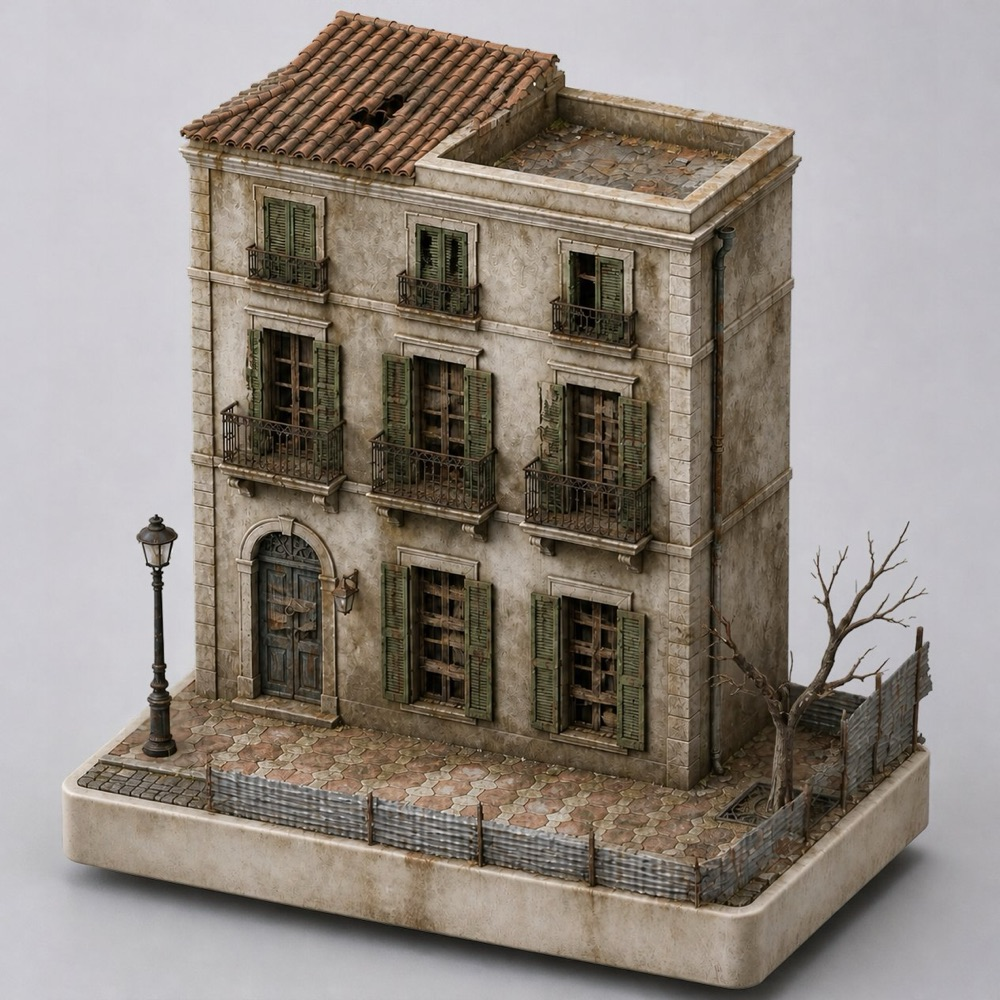
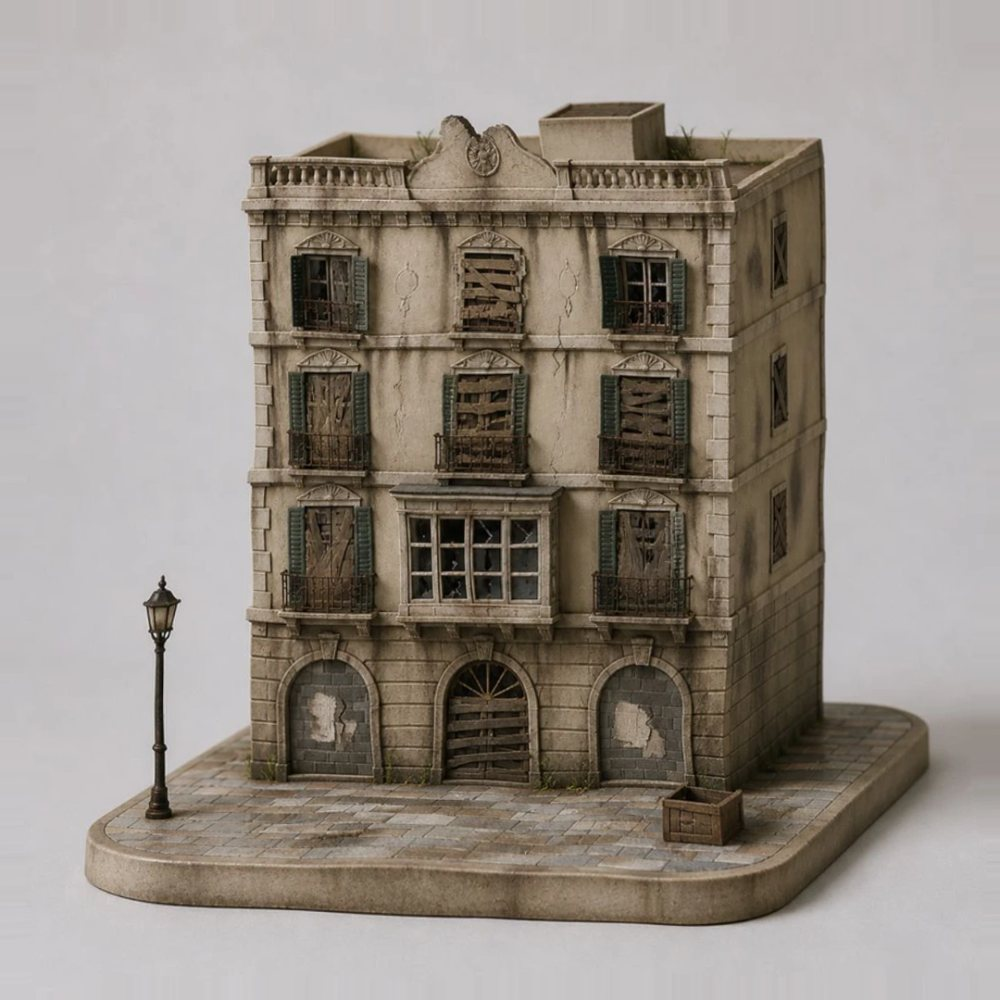
Antes y después modernista, formulario siempre abierto y scroll de los botones
- Comparador: nuevos renders (edificio modernista) alineados al píxel; se quita
  el desplazamiento CSS antiguo del «después». La app conserva el render anterior
  (img/render-app.jpg).
- Formulario: las pestañas del formulario ya no reaccionan a las de «Por qué
  Revibit»; siempre queda una abierta.
- Botones a secciones: desplazamiento animado propio; las parcelas pasan como
  sección normal durante el viaje y la inercia del trackpad no lo corta.
- Versiones en CSS/JS/imágenes para evitar caché.

diff --git a/script.js b/script.js
@@ -7,8 +7,10 @@
   const FORM_ENDPOINT = "https://script.google.com/macros/s/AKfycbwfiQ0v1y38jl50gaqi2CEWt8Fye_v84uIDwWsOAurIMfMEKIuGzV-rMqL1e-3ROuLs/exec"; // ← pegar aquí la dirección /exec de Google Apps Script
 
   // ---------- Pestañas ----------
-  const tabs = [...document.querySelectorAll('[role="tab"]')];
+  // Solo las pestañas del formulario (las de «Por qué Revibit» van aparte)
+  const tabs = [...document.querySelectorAll('.tabs [role="tab"]')];
   function select(id) {
+    if (!tabs.some((t) => t.id === "tab-" + id)) id = "persona";   // siempre queda una abierta
     tabs.forEach((t) => {
       const on = t.id === "tab-" + id;
       t.setAttribute("aria-selected", on);
@@ -25,7 +27,74 @@
     });
   });
   // Los botones del hero abren la pestaña que toca
-  document.querySelectorAll("[data-tab]").forEach((a) => a.addEventListener("click", () => select(a.dataset.tab)));
+  document.querySelectorAll("a[data-tab]").forEach((a) => a.addEventListener("click", () => select(a.dataset.tab)));
+  if (!tabs.some((t) => t.getAttribute("aria-selected") === "true")) select("persona");
+
+  // ---------- Enlaces internos: desplazamiento animado ----------
+  // Se ve bajar la página entera. La sección de las parcelas normalmente se
+  // queda fija en pantalla varias alturas de scroll; durante el viaje la
+  // convertimos en una sección normal (clase .flujo, ya encajada) para que no
+  // parezca que la página se queda pillada, y al llegar la restauramos
+  // compensando el scroll para que no se note.
+  const asm = document.querySelector(".assemble");
+  const reduceMotion = matchMedia("(prefers-reduced-motion: reduce)").matches;
+  let anim = null, fin = null;
+  const corta = () => { if (anim) { cancelAnimationFrame(anim); anim = null; if (fin) fin(); } };
+  // La rueda/trackpad NO interrumpe el viaje (dura ~2 s): en Mac la inercia de
+  // un scroll anterior sigue enviando eventos y lo cortaba a medias, y parecía
+  // que la página se quedaba pillada. Solo lo corta tocar la pantalla o una tecla.
+  ["touchstart", "keydown"].forEach((ev) => addEventListener(ev, corta, { passive: true }));
+  const head = document.querySelector("header");
+  const destY = (el) => Math.min(el.getBoundingClientRect().top + scrollY - (head ? head.offsetHeight : 0) + 8,
+                                 document.documentElement.scrollHeight - innerHeight);
+  document.querySelectorAll('a[href^="#"]').forEach((a) => a.addEventListener("click", (e) => {
+    const id = a.getAttribute("href").slice(1);
+    const dest = id && document.getElementById(id);
+    if (!dest) return;
+    e.preventDefault();
+    corta();
+    history.pushState(null, "", "#" + id);
+    let y0 = scrollY, y1 = destY(dest);
+    if (reduceMotion) { scrollTo({ top: y1, behavior: "instant" }); return; }
+
+    // ¿El viaje atraviesa la sección fija de las parcelas?
+    let delta = 0, aTop = 0;
+    if (asm) {
+      aTop = asm.offsetTop;
+      const aEnd = aTop + asm.offsetHeight;
+      if (Math.min(y0, y1) < aEnd && Math.max(y0, y1) > aTop && !asm.classList.contains("flujo")) {
+        const hOld = asm.offsetHeight;
+        asm.classList.add("flujo");
+        delta = hOld - asm.offsetHeight;
+        if (y0 >= aEnd) { y0 -= delta; scrollTo({ top: y0, behavior: "instant" }); }   // venimos de abajo
+        y1 = destY(dest);
+      }
+    }
+    // al terminar (o si el usuario interrumpe): devolver las parcelas a su sitio
+    fin = () => {
+      fin = null;
+      if (!delta) return;
+      const y = scrollY, aEndF = aTop + asm.offsetHeight;
+      asm.classList.remove("flujo");
+      if (y >= aEndF) scrollTo({ top: y + delta, behavior: "instant" });
+      else if (y > aTop) scrollTo({ top: aTop + asm.offsetHeight - innerHeight, behavior: "instant" });
+    };
+
+    const dist = Math.abs(y1 - y0);
+    const dur = Math.min(1800, Math.max(600, 450 + dist * 0.18));
+    const ease = (t) => (t < 0.5 ? 4 * t * t * t : 1 - Math.pow(-2 * t + 2, 3) / 2);
+    const t0 = performance.now();
+    const paso = (t) => {
+      const u = Math.min(1, Math.max(0, (t - t0) / dur));
+      scrollTo({ top: y0 + (y1 - y0) * ease(u), behavior: "instant" });
+      if (u < 1) anim = requestAnimationFrame(paso);
+      else { anim = null; if (fin) fin(); }
+    };
+    anim = requestAnimationFrame(paso);
+    // salvaguarda: si el navegador no anima (pestaña en segundo plano), llegar igualmente
+    const mio = anim;
+    setTimeout(() => { if (anim === mio) { cancelAnimationFrame(anim); anim = null; scrollTo({ top: y1, behavior: "instant" }); if (fin) fin(); } }, dur + 400);
+  }));
 
   // ---------- Formularios ----------
   document.querySelectorAll("form[data-form]").forEach((form) => {

diff --git a/index.html b/index.html
@@ -29,8 +29,8 @@
   <link rel="apple-touch-icon" href="img/apple-touch-icon.png">
   <link rel="preload" href="fonts/Montserrat-Regular.woff2" as="font" type="font/woff2" crossorigin>
   <link rel="preload" href="fonts/Montserrat-Bold.woff2" as="font" type="font/woff2" crossorigin>
-  <link rel="stylesheet" href="styles.css?v=18">
-  <link rel="stylesheet" href="anim.css?v=1">
+  <link rel="stylesheet" href="styles.css?v=19">
+  <link rel="stylesheet" href="anim.css?v=5">
 </head>
 <body>
   <a class="skip" href="#contenido">Saltar al contenido</a>
@@ -69,7 +69,7 @@
             <div class="screen">
               <div class="sb"><b>9:41</b><span class="sb-i"><i></i><i></i><i></i><em></em></span></div>
               <div class="ph-head"><span class="ph-back"><svg viewBox="0 0 24 24"><path d="M15 18 9 12l6-6"/></svg>Volver</span><span class="ph-r"><span class="ph-pill fict">Ejemplo</span><span class="ph-heart"><svg viewBox="0 0 24 24"><path d="M12 20s-7-4.4-7-10a4 4 0 0 1 7-2.6A4 4 0 0 1 19 10c0 5.6-7 10-7 10z"/></svg></span></span></div>
-              <div class="ph-media"><img src="img/render-despues.jpg" alt=""><span class="ph-tag">Render · ilustrativo</span></div>
+              <div class="ph-media"><img src="img/render-app.jpg" alt=""><span class="ph-tag">Render · ilustrativo</span></div>
               <div class="ph-dots"><i class="on"></i><i></i><i></i></div>
               <div class="ph-chips"><span>En reforma</span><span><svg viewBox="0 0 24 24"><path d="M12 21s-7-6.2-7-11a7 7 0 0 1 14 0c0 4.8-7 11-7 11z"/><circle cx="12" cy="10" r="2.5"/></svg>Casco histórico</span></div>
               <p class="ph-title">Calle San Fernando</p>
@@ -119,8 +119,8 @@
             <h3>Antes y después</h3>
             <p>Desliza para ver cómo cambia una fachada del centro.</p>
             <div class="compare">
-              <img class="cmp-layer" src="img/render-antes.jpg" alt="El edificio antes de la rehabilitación: fachada desconchada y ventanas tapiadas (render ilustrativo)">
-              <div class="cmp-layer cmp-after"><img src="img/render-despues.jpg" alt="El mismo edificio rehabilitado: fachada ocre, balcones con plantas y azotea (render ilustrativo)"></div>
+              <img class="cmp-layer" src="img/render-antes.jpg?v=4" alt="Edificio modernista abandonado: fachada sucia, ventanas tapiadas con tablas y arcos cerrados (render ilustrativo)">
+              <div class="cmp-layer cmp-after"><img src="img/render-despues.jpg?v=4" alt="El mismo edificio rehabilitado: fachada crema, balcones de forja con flores y mirador blanco (render ilustrativo)"></div>
               <div class="cmp-handle" aria-hidden="true"><span></span></div>
               <label class="sr-only" for="cmp-range">Comparar antes y después</label>
               <input id="cmp-range" class="cmp-range" type="range" min="0" max="100" value="50">
@@ -360,7 +360,7 @@
     </div>
   </footer>
 
-  <script src="script.js?v=4"></script>
+  <script src="script.js?v=14"></script>
   <script src="anim.js?v=1"></script>
 </body>
 </html>

diff --git a/anim.css b/anim.css
@@ -104,7 +104,7 @@
 .compare { position: relative; aspect-ratio: 5 / 4; background: #e9e9e9; border-radius: 20px; overflow: hidden; box-shadow: 0 20px 40px rgba(2,27,40,.18); }
 .cmp-layer { position: absolute; inset: 0; width: 100%; height: 100%; object-fit: cover; display: block; }
 .cmp-after { clip-path: inset(0 0 0 var(--cut, 50%)); overflow: hidden; }
-.cmp-after img { width: 100%; height: 100%; object-fit: cover; display: block; transform: translate(-1.9%, -2.3%) scale(1.07); }
+.cmp-after img { width: 100%; height: 100%; object-fit: cover; display: block; }
 .cmp-handle { position: absolute; top: 0; bottom: 0; left: var(--cut, 50%); width: 3px; background: #fff; transform: translateX(-50%); pointer-events: none; }
 .cmp-handle span { position: absolute; top: 50%; left: 50%; width: 40px; height: 40px; border-radius: 999px; background: var(--neon); border: 3px solid #fff; transform: translate(-50%, -50%); box-shadow: 0 4px 14px rgba(0,0,0,.25); }
 .cmp-range { position: absolute; inset: 0; width: 100%; height: 100%; opacity: 0; cursor: ew-resize; margin: 0; }
@@ -166,3 +166,12 @@
 .assemble .dot { color: var(--neon); }
 @keyframes ping { 0% { box-shadow: 0 0 0 0 rgba(0,255,179,.55); } 100% { box-shadow: 0 0 0 9px rgba(0,255,179,0); } }
 .compare img { object-position: 50% 22%; }
+/* Mientras un botón lleva la página hasta otra sección: las parcelas pasan
+   como una sección normal (ya encajadas y encendidas), sin tramo fijo. */
+.assemble.flujo { height: 100vh; }
+.assemble.flujo .asm-sticky { position: relative; }
+.assemble.flujo .asm-grid span { transform: none !important; transition: none; }
+.assemble.flujo .asm-grid span:nth-child(3), .assemble.flujo .asm-grid span:nth-child(6), .assemble.flujo .asm-grid span:nth-child(8),
+.assemble.flujo .asm-grid span:nth-child(10), .assemble.flujo .asm-grid span:nth-child(13), .assemble.flujo .asm-grid span:nth-child(17),
+.assemble.flujo .asm-grid span:nth-child(20), .assemble.flujo .asm-grid span:nth-child(24) { background: var(--neon); border-color: var(--neon); box-shadow: 0 0 40px rgba(0,255,179,.4); }
+.assemble.flujo .asm-text { opacity: 1; transform: none; }

diff --git a/styles.css b/styles.css
@@ -22,7 +22,7 @@
 
 * { box-sizing: border-box; }
 [hidden] { display: none !important; }
-html { scroll-behavior: smooth; -webkit-text-size-adjust: 100%; }
+html { scroll-behavior: smooth; scroll-padding-top: 64px; -webkit-text-size-adjust: 100%; }
 body { margin: 0; background: var(--white); color: var(--text); font-family: "Montserrat", Arial, Helvetica, sans-serif; font-size: 17px; line-height: 1.6; -webkit-font-smoothing: antialiased; }
 img, svg { display: block; max-width: 100%; }
 a { color: var(--green); }
